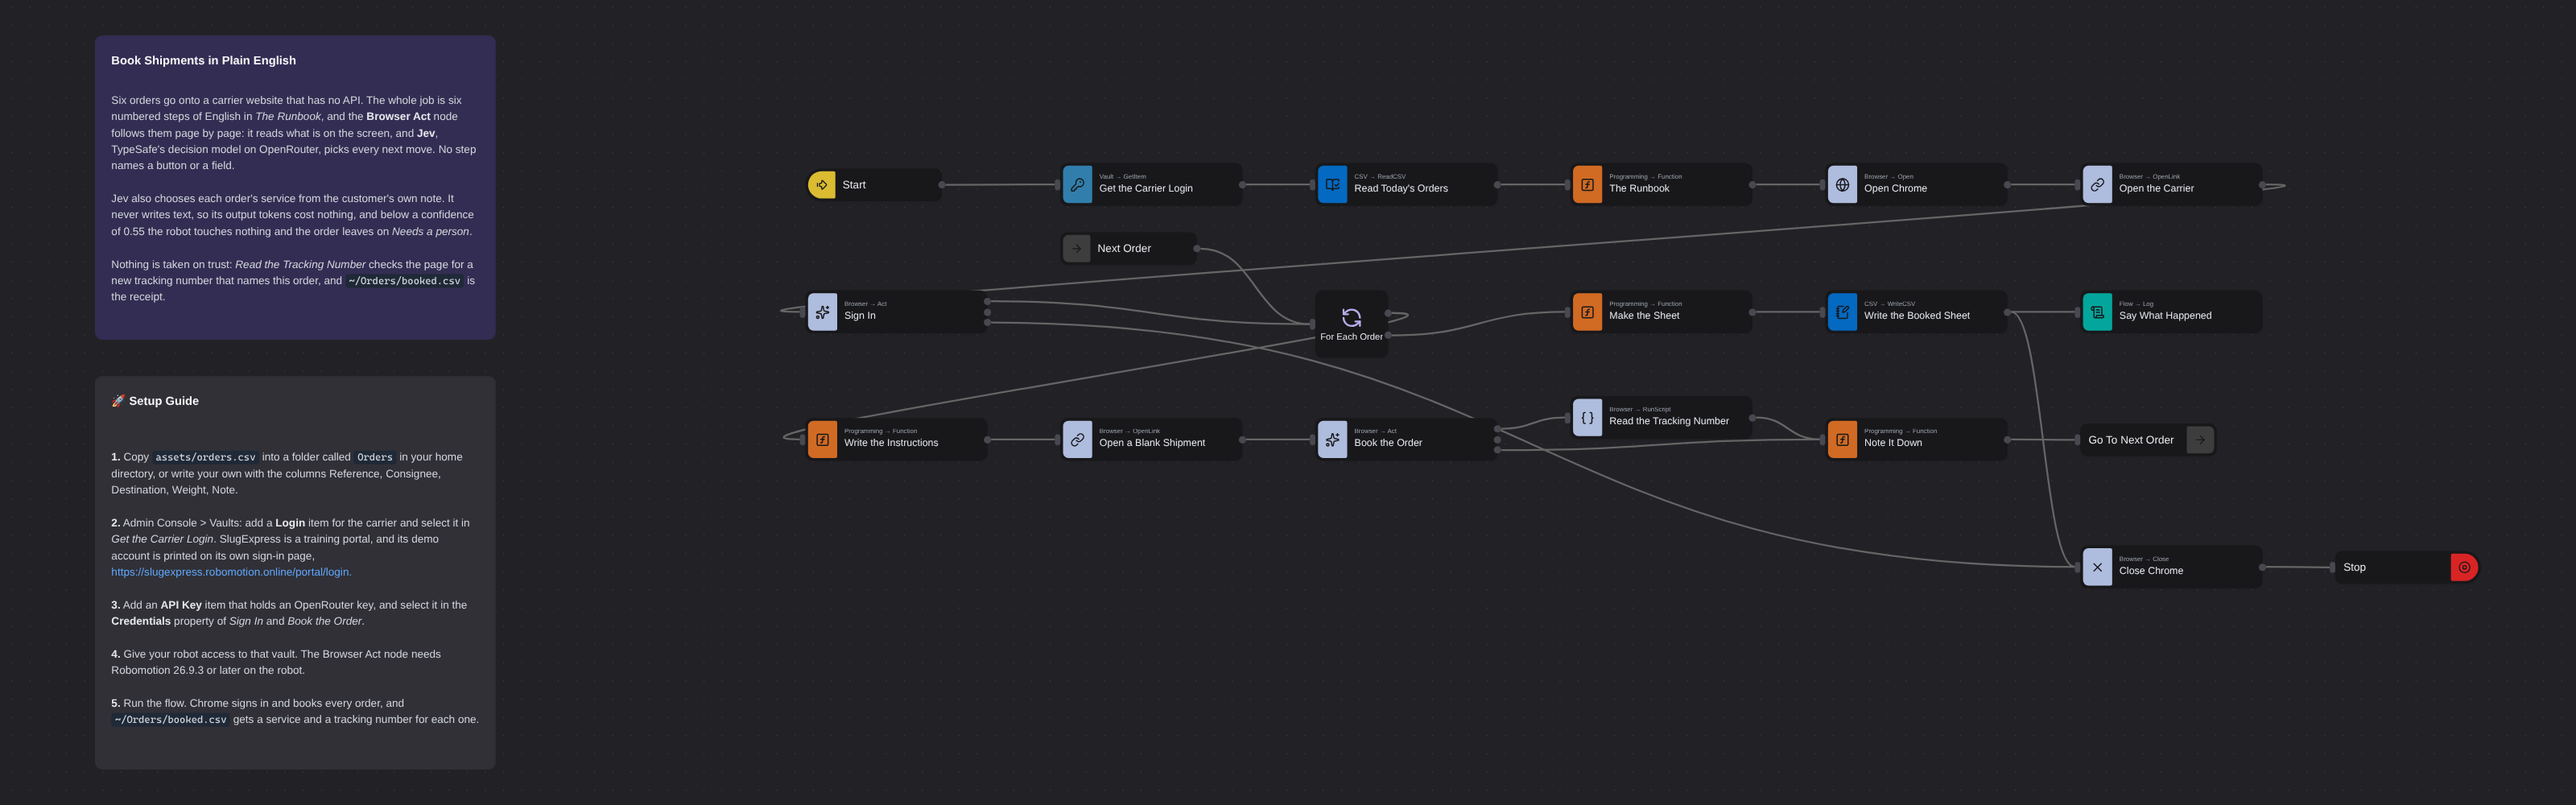
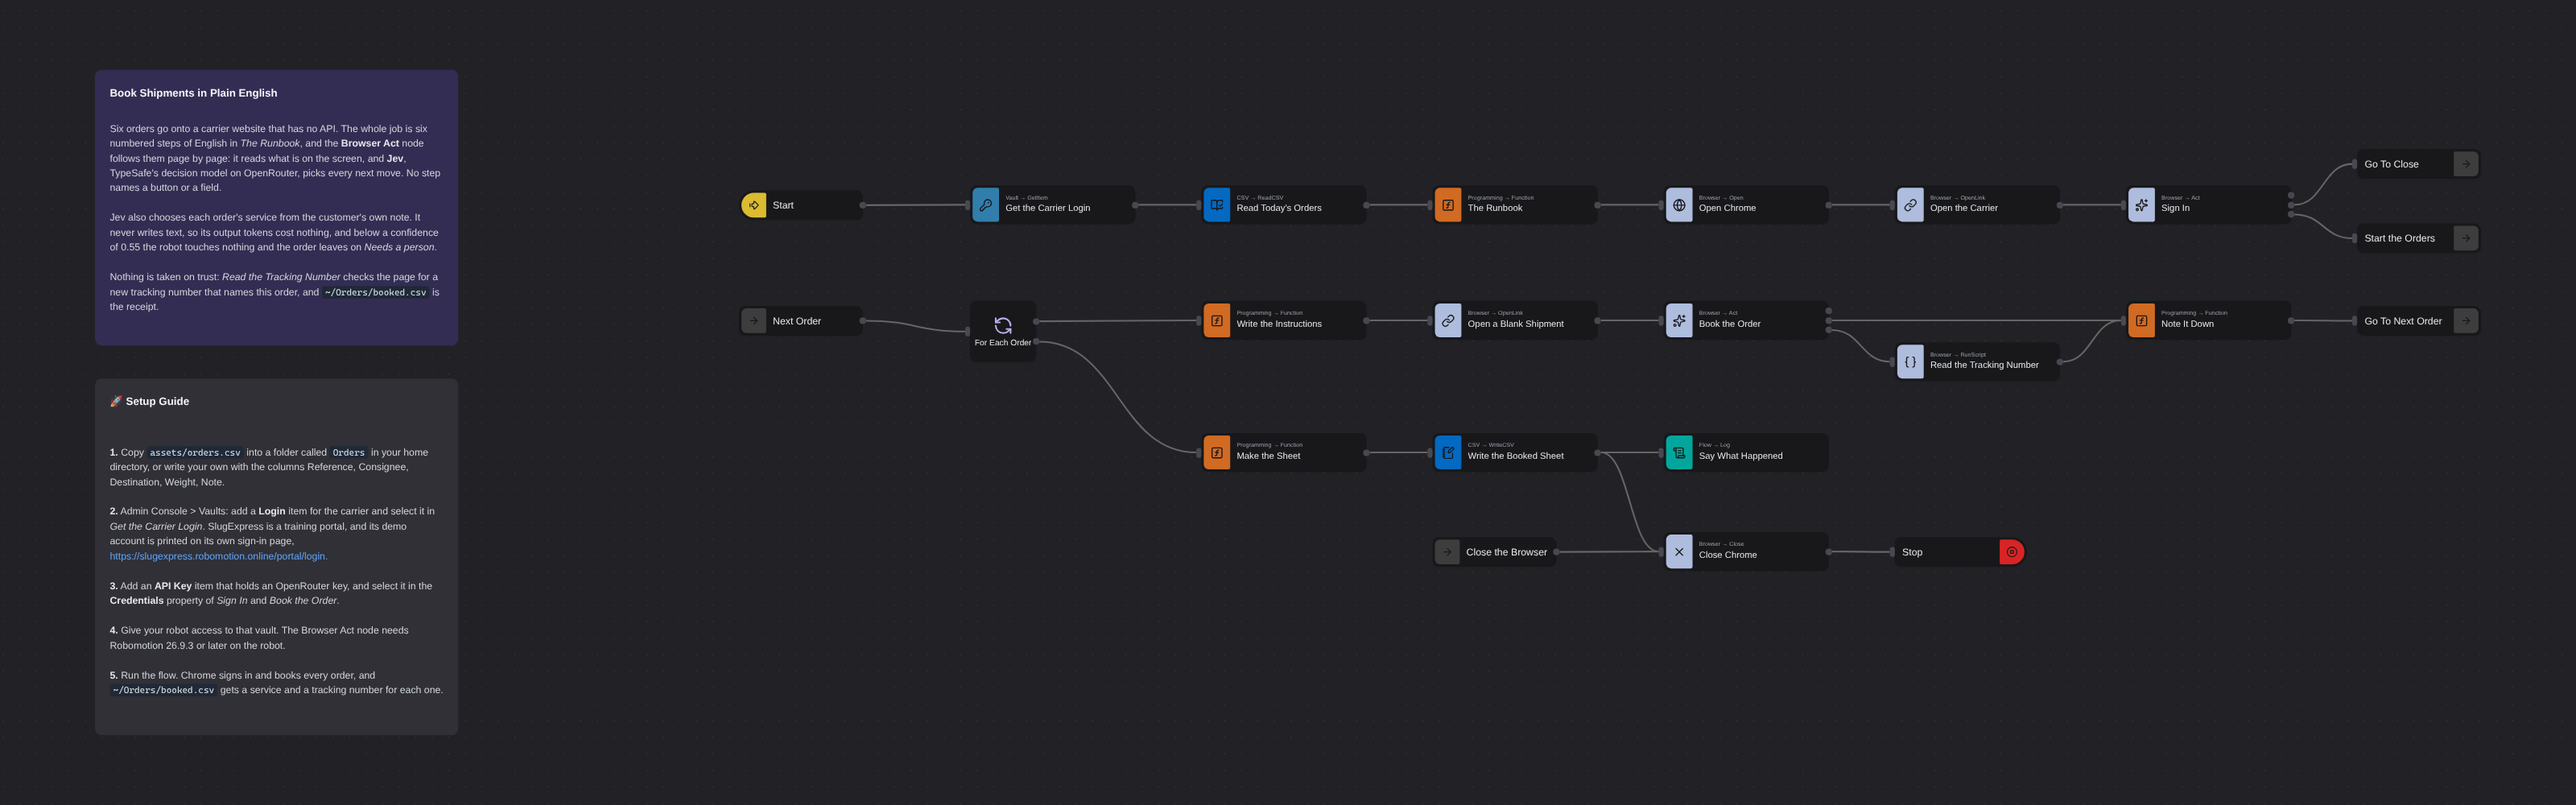
Book Shipments in Plain English: Act's new port order, and GoTo/Label instead of long wires
Browser Act's ports are now Continue, Needs a person, Done (robomotion 960bb4285b), so
both Act nodes are rewired: Done is port 2, Needs a person port 1.

No wire crosses the canvas any more. Sign In now follows Open the Carrier in the top band,
and hands off through two GoTos: Start the Orders to the Next Order label, and Go To Close
to a new Close the Browser label. Four bands: set up and sign in, the order loop, the sheet,
closing the browser. Screenshots regenerated.

Rehearsed on a robot running the new deskbot (credentials put back, nothing else changed):
6 of 6 booked in 55 decisions; a run that hit an OpenRouter 520 took Needs a person on two
orders and carried on; a Sign In capped at one step went straight to Close Chrome and Stop.

diff --git a/book-shipments-in-plain-english/main.designer.ts b/book-shipments-in-plain-english/main.designer.ts
@@ -1,37 +1,42 @@
 // Laid out by stage, not by the auto-layout engine: it classifies this flow as a DAG and
 // stacks it into one tall column, which the 3.2:1 screenshot frame shrinks to unreadable.
-// Three bands instead, the layout the flow was filmed in: set up and sign in on top, the
-// order loop's control row in the middle, and the per-order work underneath, with the
-// browser closing below it. 280 px / 140 px on the grid in docs/layout-guide.md; Start,
-// Label, GoTo and Stop are short nodes, so they carry the +6 px nudge that keeps a wire level.
+// Four bands, and no wire leaves its band: where one would cross the canvas, a GoTo hands
+// the message to a Label instead. Set up and sign in on top; the order loop under it; then
+// the sheet; then the browser closing. 280 px / 140 px on the grid in docs/layout-guide.md;
+// Start, Label, GoTo and Stop are short nodes, so they carry the +6 px nudge that keeps a
+// wire level. Act's ports are Continue, Needs a person, Done from the top, so Sign In's
+// Needs a person goes up to its GoTo and Done goes down to the other.
 export default {
   flowId: '929b22bc-0d17-4b95-84bc-dd1274c5af78',
-  sourceHash: '4df181cf',
+  sourceHash: '5b1bfb02',
   positions: {
-    // ---- set up: the login, the orders, the runbook, the browser ----
+    // ---- set up, and sign in ----
     'c10001': { x: 600, y: 246 },     // Start
     'c10002': { x: 880, y: 240 },     // Get the Carrier Login
     'c10003': { x: 1160, y: 240 },    // Read Today's Orders
     'c10004': { x: 1440, y: 240 },    // The Runbook
     'c10005': { x: 1720, y: 240 },    // Open Chrome
     'c10006': { x: 2000, y: 240 },    // Open the Carrier
-    // ---- sign in, then the loop; its done port writes the sheet ----
-    'c10007': { x: 600, y: 380 },     // Sign In (Act)
-    'c10008': { x: 880, y: 316 },     // Label: Next Order, between the bands so Sign In's wire runs clear
-    'c10009': { x: 1160, y: 380 },    // For Each Order
-    'c10010': { x: 1440, y: 380 },    // Make the Sheet
-    'c10011': { x: 1720, y: 380 },    // Write the Booked Sheet
-    'c10012': { x: 2000, y: 380 },    // Say What Happened
-    // ---- one order: instructions, a blank form, the Act node, the proof ----
-    'c1000a': { x: 600, y: 520 },     // Write the Instructions
-    'c1000b': { x: 880, y: 520 },     // Open a Blank Shipment
-    'c1000c': { x: 1160, y: 520 },    // Book the Order (Act)
-    'c1000d': { x: 1440, y: 496 },    // Read the Tracking Number, lifted so Book the Order's Needs-a-person wire passes under it
-    'c1000e': { x: 1720, y: 520 },    // Note It Down
-    'c1000f': { x: 2000, y: 526 },    // Go To Next Order
-    // ---- close ----
-    'c10013': { x: 2000, y: 660 },    // Close Chrome
-    'c10099': { x: 2280, y: 666 },    // Stop
+    'c10007': { x: 2280, y: 240 },    // Sign In (Act)
+    'c10015': { x: 2560, y: 196 },    // Go To Close  (Needs a person)
+    'c10014': { x: 2560, y: 286 },    // Start the Orders  (Done)
+    // ---- the order loop ----
+    'c10008': { x: 600, y: 386 },     // Label: Next Order
+    'c10009': { x: 880, y: 380 },     // For Each Order
+    'c1000a': { x: 1160, y: 380 },    // Write the Instructions
+    'c1000b': { x: 1440, y: 380 },    // Open a Blank Shipment
+    'c1000c': { x: 1720, y: 380 },    // Book the Order (Act)
+    'c1000d': { x: 2000, y: 430 },    // Read the Tracking Number, set low so Needs a person passes over it
+    'c1000e': { x: 2280, y: 380 },    // Note It Down
+    'c1000f': { x: 2560, y: 386 },    // Go To Next Order
+    // ---- the sheet (For Each, done port) ----
+    'c10010': { x: 1160, y: 540 },    // Make the Sheet
+    'c10011': { x: 1440, y: 540 },    // Write the Booked Sheet
+    'c10012': { x: 1720, y: 540 },    // Say What Happened
+    // ---- close the browser ----
+    'c10016': { x: 1440, y: 666 },    // Label: Close the Browser
+    'c10013': { x: 1720, y: 660 },    // Close Chrome
+    'c10099': { x: 2000, y: 666 },    // Stop
     // ---- comments, in their own column, clear of the flow ----
     'c30001': { x: -180, y: 100 },
     'c30002': { x: -180, y: 474 },

diff --git a/book-shipments-in-plain-english/main.ts b/book-shipments-in-plain-english/main.ts
@@ -153,6 +153,12 @@ return msg;
     ;
   f.node('c10099', 'Core.Flow.Stop', 'Stop', {})
     ;
+  f.node('c10014', 'Core.Flow.GoTo', 'Start the Orders', { optNodes: { ids: ['c10008'], type: 'goto', all: false } })
+    ;
+  f.node('c10015', 'Core.Flow.GoTo', 'Go To Close', { optNodes: { ids: ['c10016'], type: 'goto', all: false } })
+    ;
+  f.node('c10016', 'Core.Flow.Label', 'Close the Browser', {})
+    ;
 
   f.edge('c10001', 0, 'c10002', 0);
   f.edge('c10002', 0, 'c10003', 0);
@@ -160,15 +166,16 @@ return msg;
   f.edge('c10004', 0, 'c10005', 0);
   f.edge('c10005', 0, 'c10006', 0);
   f.edge('c10006', 0, 'c10007', 0);
-  f.edge('c10007', 0, 'c10009', 0);
-  f.edge('c10007', 2, 'c10013', 0);
+  f.edge('c10007', 2, 'c10014', 0);
+  f.edge('c10007', 1, 'c10015', 0);
+  f.edge('c10016', 0, 'c10013', 0);
   f.edge('c10008', 0, 'c10009', 0);
   f.edge('c10009', 0, 'c1000a', 0);
   f.edge('c10009', 1, 'c10010', 0);
   f.edge('c1000a', 0, 'c1000b', 0);
   f.edge('c1000b', 0, 'c1000c', 0);
-  f.edge('c1000c', 0, 'c1000d', 0);
-  f.edge('c1000c', 2, 'c1000e', 0);
+  f.edge('c1000c', 2, 'c1000d', 0);
+  f.edge('c1000c', 1, 'c1000e', 0);
   f.edge('c1000d', 0, 'c1000e', 0);
   f.edge('c1000e', 0, 'c1000f', 0);
   f.edge('c10010', 0, 'c10011', 0);

diff --git a/book-shipments-in-plain-english/README.md b/book-shipments-in-plain-english/README.md
@@ -17,7 +17,7 @@ Jev does not write text. It is given the page and a list of allowed answers and 
 
 ## Behind the scenes
 
-The flow reads a login from the vault and today's orders from `~/Orders/orders.csv`, opens Chrome on the carrier, and a first **Act** node signs in with a one-line goal: *Sign in to the business portal.* Its **Values** are two labels, `the sign-in email` and `the sign-in password`. Only the labels reach the model; the robot substitutes the values when it types.
+The flow reads a login from the vault and today's orders from `~/Orders/orders.csv`, opens Chrome on the carrier, and a first **Act** node signs in with a one-line goal: *Sign in to the business portal.* Its **Values** are two labels, `the sign-in email` and `the sign-in password`. Only the labels reach the model; the robot substitutes the values when it types. When it is done, *Start the Orders* jumps to the order loop. If it cannot sign in, it leaves on **Needs a person** and *Go To Close* goes straight to closing the browser, before a single order is touched.
 
 Then a loop runs over the orders. **Write the Instructions** fills the runbook's `{destination}`, `{note}` and `{consignee}` from the order and sets the values the Act node may type. **Open a Blank Shipment** loads an empty form, so no order ever starts on the previous order's confirmation page. **Book the Order** is the second Act node, given the whole runbook as its goal. On every turn it takes a snapshot of the visible, enabled elements, stamps each one with an index, and asks Jev one question with every head at once: the operation (click, type, select, scroll, wait, done or blocked) and the target for each. The answer is always an index into the table the robot built, and the robot checks it against the page before it touches anything.
 
